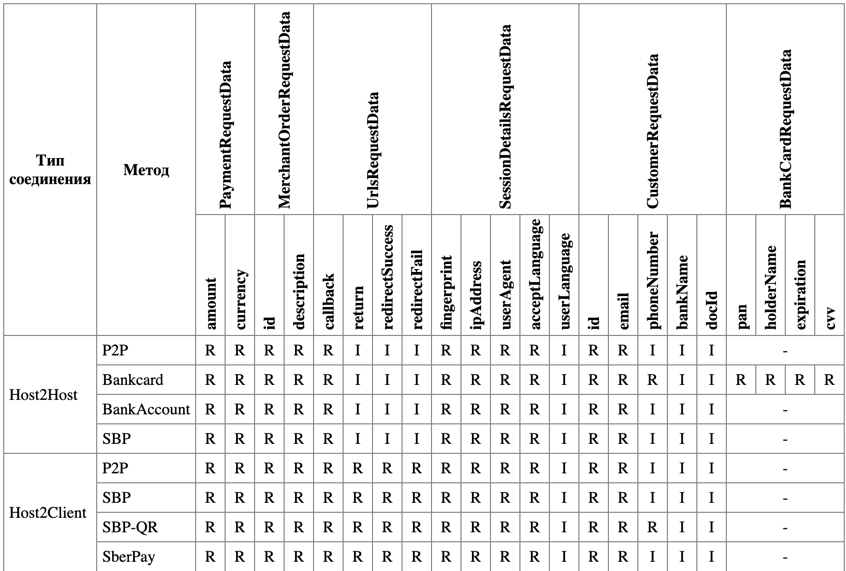
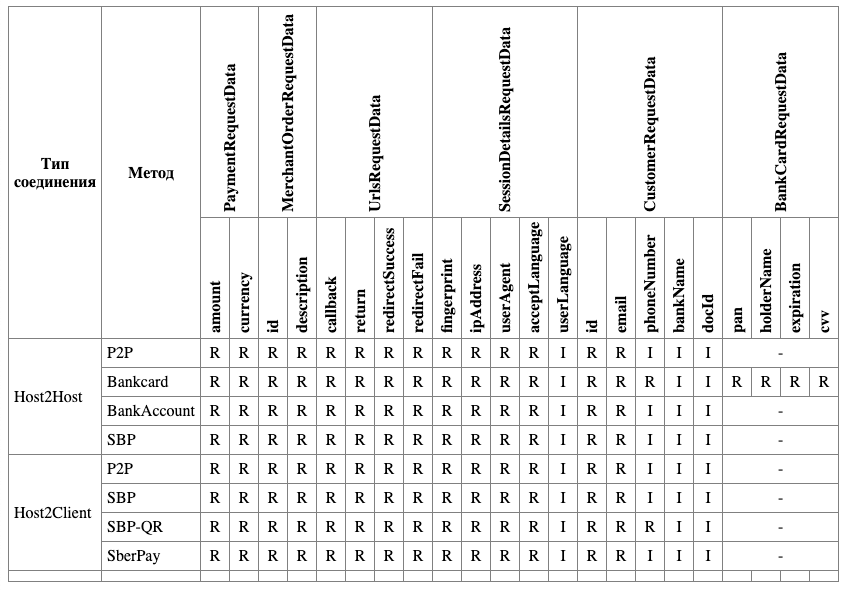
DEV-14674: изменены структуры запроса в биллинг для универсальных методов депозита и выплат

Changed region(s): [[0.0, 0.0, 1.0, 1.0], [0.1537, 0.268, 0.2151, 0.3275]]

diff --git a/src/Images/table-universal-deposit.html b/src/Images/table-universal-deposit.html
@@ -218,9 +218,9 @@
         <td class="value">R</td>
         <td class="value">R</td>
         <td class="value">R</td>
-        <td class="value">I</td>
-        <td class="value">I</td>
-        <td class="value">I</td>
+        <td class="value">R</td>
+        <td class="value">R</td>
+        <td class="value">R</td>
         <td class="value">R</td>
         <td class="value">R</td>
         <td class="value">R</td>
@@ -240,9 +240,9 @@
         <td class="value">R</td>
         <td class="value">R</td>
         <td class="value">R</td>
-        <td class="value">I</td>
-        <td class="value">I</td>
-        <td class="value">I</td>
+        <td class="value">R</td>
+        <td class="value">R</td>
+        <td class="value">R</td>
         <td class="value">R</td>
         <td class="value">R</td>
         <td class="value">R</td>
@@ -265,9 +265,9 @@
         <td class="value">R</td>
         <td class="value">R</td>
         <td class="value">R</td>
-        <td class="value">I</td>
-        <td class="value">I</td>
-        <td class="value">I</td>
+        <td class="value">R</td>
+        <td class="value">R</td>
+        <td class="value">R</td>
         <td class="value">R</td>
         <td class="value">R</td>
         <td class="value">R</td>
@@ -287,9 +287,9 @@
         <td class="value">R</td>
         <td class="value">R</td>
         <td class="value">R</td>
-        <td class="value">I</td>
-        <td class="value">I</td>
-        <td class="value">I</td>
+        <td class="value">R</td>
+        <td class="value">R</td>
+        <td class="value">R</td>
         <td class="value">R</td>
         <td class="value">R</td>
         <td class="value">R</td>

diff --git a/src/Images/table-universal-withdrawal.html b/src/Images/table-universal-withdrawal.html
@@ -82,9 +82,9 @@
         <td class="value">R</td>
         <td class="value">R</td>
         <td class="value">R</td>
-        <td class="value">I</td>
-        <td class="value">I</td>
-        <td class="value">I</td>
+        <td class="value">O</td>
+        <td class="value">O</td>
+        <td class="value">O</td>
         <td class="value">R</td>
         <td class="value">R</td>
         <td class="value">R</td>
@@ -108,9 +108,9 @@
         <td class="value">R</td>
         <td class="value">R</td>
         <td class="value">R</td>
-        <td class="value">R</td>
-        <td class="value">R</td>
-        <td class="value">R</td>
+        <td class="value">O</td>
+        <td class="value">O</td>
+        <td class="value">O</td>
         <td class="value">R</td>
         <td class="value">R</td>
         <td class="value">R</td>
@@ -134,9 +134,9 @@
         <td class="value">R</td>
         <td class="value">R</td>
         <td class="value">R</td>
-        <td class="value">R</td>
-        <td class="value">R</td>
-        <td class="value">R</td>
+        <td class="value">O</td>
+        <td class="value">O</td>
+        <td class="value">O</td>
         <td class="value">R</td>
         <td class="value">R</td>
         <td class="value">R</td>
@@ -157,9 +157,9 @@
         <td class="value">R</td>
         <td class="value">R</td>
         <td class="value">R</td>
-        <td class="value">I</td>
-        <td class="value">I</td>
-        <td class="value">I</td>
+        <td class="value">O</td>
+        <td class="value">O</td>
+        <td class="value">O</td>
         <td class="value">R</td>
         <td class="value">R</td>
         <td class="value">R</td>

diff --git a/src/Config/config.php b/src/Config/config.php
@@ -144,34 +144,26 @@ return [
                 ],
                 CommunicationType::HOST_2_HOST => [
                     PaymentMethod::BANKCARD_NAME => [
-                        'ignore' => ['return', 'redirectSuccess', 'redirectFail'],
+                        'required' => ['callback', 'return', 'redirectSuccess', 'redirectFail']
                     ],
                     PaymentMethod::P2P_NAME => [
-                        'ignore' => ['return', 'redirectSuccess', 'redirectFail'],
+                        'required' => ['callback', 'return', 'redirectSuccess', 'redirectFail']
                     ],
                     PaymentMethod::BANK_ACCOUNT => [
-                        'ignore' => ['return', 'redirectSuccess', 'redirectFail'],
+                        'required' => ['callback', 'return', 'redirectSuccess', 'redirectFail']
                     ],
                     PaymentMethod::SBP_NAME => [
-                        'ignore' => ['return', 'redirectSuccess', 'redirectFail'],
+                        'required' => ['callback', 'return', 'redirectSuccess', 'redirectFail']
                     ],
                 ]
             ],
             PaymentType::WITHDRAWAL => [
                 CommunicationType::HOST_2_CLIENT => [],
                 CommunicationType::HOST_2_HOST => [
-                    PaymentMethod::SBER_PAY_NAME => [
-                        'ignore' => ['return', 'redirectSuccess', 'redirectFail']
-                    ],
-                    PaymentMethod::P2P_NAME => [
-                        'ignore' => ['return', 'redirectSuccess', 'redirectFail']
-                    ],
-                    PaymentMethod::SBP_NAME => [
-                        'ignore' => ['return', 'redirectSuccess', 'redirectFail']
-                    ],
-                    PaymentMethod::BANK_ACCOUNT => [
-                        'ignore' => ['return', 'redirectSuccess', 'redirectFail']
-                    ],
+                    PaymentMethod::SBER_PAY_NAME => [],
+                    PaymentMethod::P2P_NAME => [],
+                    PaymentMethod::SBP_NAME => [],
+                    PaymentMethod::BANK_ACCOUNT => [],
                 ]
             ]
         ],

diff --git a/README.md b/README.md
@@ -276,6 +276,7 @@ Idynsys\BillingSdk\Data\UniversalRequestStructures\UniversalDepositResponseData 
 Значения в ячейках:
 - "R" - обязательное
 - "I" - игнорируется
+- "O" - необязательное, может быть null
 - "-" - не используется
 
 ![image](src/Images/table-universal-deposit.png "table-universal-deposit.png")
@@ -652,6 +653,7 @@ $createdResult = $billing->createUniversalWithdrawal($withdrawalDTO);
 Значения в ячейках:
 - "R" - обязательное
 - "I" - игнорируется
+- "O" - необязательное, может быть null
 - "-" - не используется
 
 ![Таблица универсальных объектов](src/Images/table-universal-withdrawal.png "table-universal-deposit.png")
